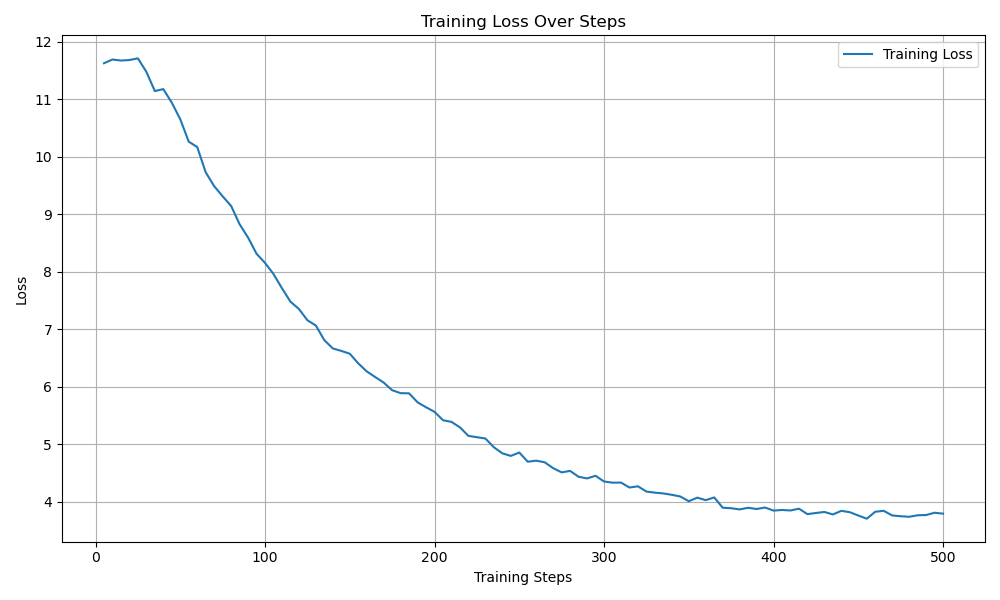
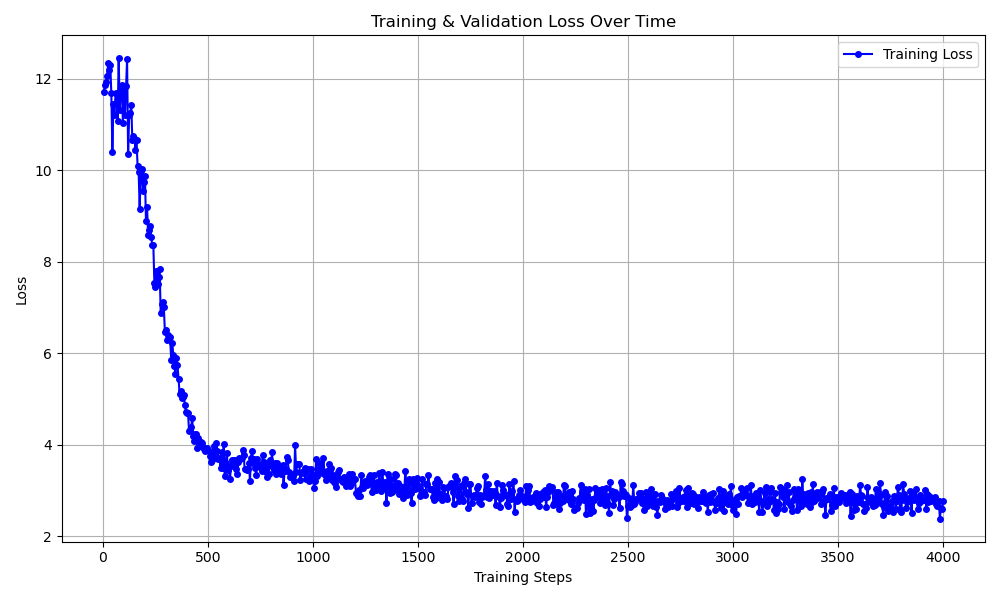
doe refinemets

diff --git a/site/index.html b/site/index.html
@@ -712,5 +712,5 @@ Una delle criticità risiede anche nella formulazione del problema. Le emozioni 
 
 <!--
 MkDocs version : 1.6.1
-Build Date UTC : 2025-07-20 20:11:12.350283+00:00
+Build Date UTC : 2025-07-20 20:55:54.160409+00:00
 -->

diff --git a/README.md b/README.md
@@ -1,0 +1,20 @@
+# LLMFT4STATS
+Fine Tuning small LLM (using a statistical approach)                                                 
+https://Mahalanobis.github.io/Mahalanobis.io
+
+
+
+## Input Dataset (from HuggingFaces)
+https://huggingface.co/datasets/boltuix/emotions-dataset
+
+
+## Hardware
+Questo tutorial è stato sviluppato e testato su un sistema con le seguenti specifiche hardware. 
+
+* **Processore (CPU):** [AMD Ryzen 9 PRO 7940HS w/ Radeon 780M Graphic]
+* **Scheda Grafica (GPU):** [NVIDIA RTX 2000 Ada Generation (AD107 chip) - 8GB VRAM]
+    * **Architettura CUDA:** [Cuda 12.9, V12.9.86] 
+* **Memoria RAM:** [64 GB]
+* **Sistema Operativo:** [Linux Ubuntu 22.04.5 LTS]
+* **Driver NVIDIA:** [Versione 575.57.08]
+* **Versione CUDA Toolkit:** [CUDA 12.9] 
